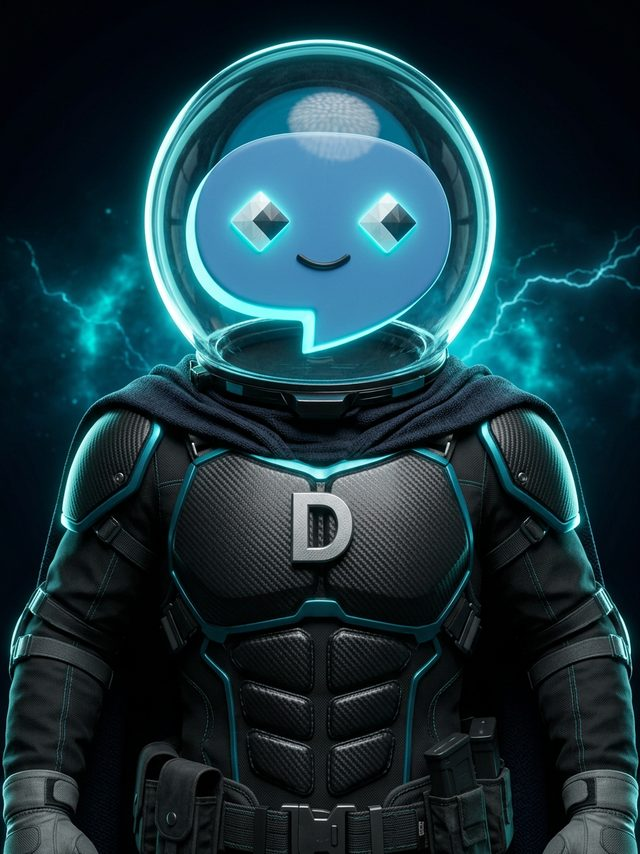
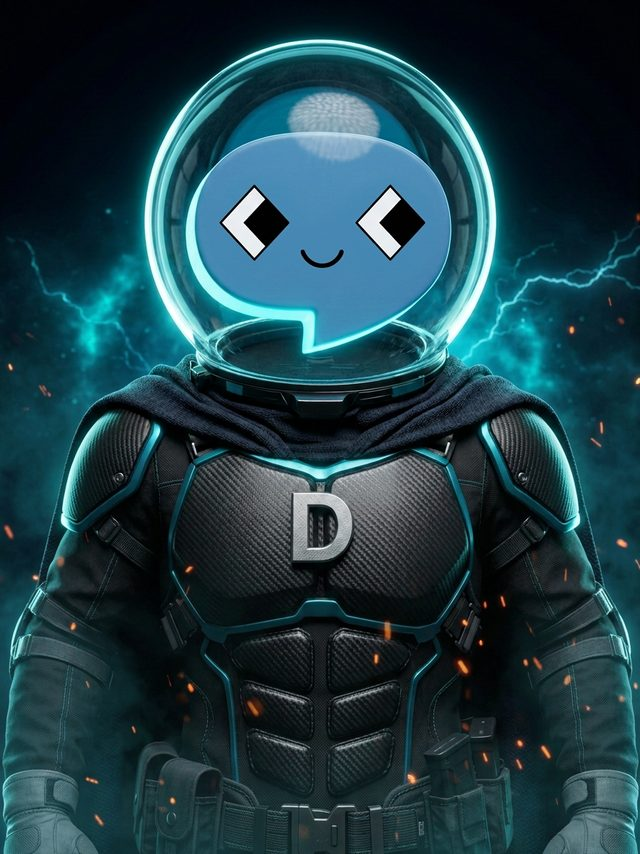
Mascot-faithful eyes, your portrait as-is, DRAG tutorial text, kunai diagnostics
- in-game Dili eyes rebuilt to match the reference: white rotated square with
  black chevron on its RIGHT side, both eyes identical
- VS-splash/help portrait = the provided mascot image as-is, web-optimized
  (640px progressive jpg, 91KB)
- dash tutorial text now teaches DRAG 2x (tap still works as alternative)
- kunai: bigger blade (2.6x), brighter halo + thicker trail
- build tag shows a live 'kunai N' counter while a blade is airborne

diff --git a/src/entities/Projectile.js b/src/entities/Projectile.js
@@ -43,8 +43,8 @@ export class Projectile {
       particleSystem.particles.push({
         x: this.x - this.direction * 12, y: this.y,
         vx: -this.direction * 60, vy: 0,
-        size: 3.4, color: 'rgba(186, 240, 255, 0.9)',
-        alpha: 0.9, life: 0.22, maxLife: 0.22, type: 'spark',
+        size: 5, color: 'rgba(220, 250, 255, 1)',
+        alpha: 1, life: 0.3, maxLife: 0.3, type: 'spark',
       });
     }
 
@@ -78,19 +78,19 @@ export class Projectile {
     } else {
       // Steel Kunai / Throwing Dagger — big, bright and halo-lit so it never
       // disappears against busy stage art (halo uses gradients: phone-safe)
-      const halo = ctx.createRadialGradient(0, 0, 2, 0, 0, 42);
-      halo.addColorStop(0, 'rgba(186, 240, 255, 0.75)');
-      halo.addColorStop(0.5, 'rgba(103, 232, 249, 0.35)');
+      const halo = ctx.createRadialGradient(0, 0, 2, 0, 0, 46);
+      halo.addColorStop(0, 'rgba(200, 245, 255, 0.85)');
+      halo.addColorStop(0.5, 'rgba(103, 232, 249, 0.4)');
       halo.addColorStop(1, 'rgba(103, 232, 249, 0)');
       ctx.fillStyle = halo;
       ctx.beginPath();
-      ctx.arc(0, 0, 42, 0, Math.PI * 2);
+      ctx.arc(0, 0, 46, 0, Math.PI * 2);
       ctx.fill();
 
-      ctx.scale(2.2, 2.2);
+      ctx.scale(2.6, 2.6);
       ctx.fillStyle = '#ffffff';
       ctx.strokeStyle = '#22d3ee';
-      ctx.lineWidth = 1.6;
+      ctx.lineWidth = 2;
 
       ctx.beginPath();
       ctx.moveTo(14, 0);

diff --git a/src/entities/FighterRenderer.js b/src/entities/FighterRenderer.js
@@ -518,21 +518,35 @@ export class FighterRenderer {
       ctx.closePath();
       ctx.fill();
 
-      // Diamond eyes (white diamond + black pupil diamond)
+      // Diamond eyes — white rotated square with the black chevron on its
+      // RIGHT side, both eyes identical (matches the mascot reference art)
       const eye = (ex) => {
         ctx.save();
         ctx.translate(ex, -2);
+        // White square (rotated 45°)
+        ctx.save();
         ctx.rotate(Math.PI / 4);
         if (isShadow) {
           ctx.fillStyle = '#00f0ff';
           ctx.shadowColor = '#00f0ff';
           ctx.shadowBlur = 8;
-          ctx.fillRect(-2.6, -2.6, 5.2, 5.2);
         } else {
           ctx.fillStyle = '#f8fafc';
-          ctx.fillRect(-2.7, -2.7, 5.4, 5.4);
+        }
+        ctx.fillRect(-2.7, -2.7, 5.4, 5.4);
+        ctx.restore();
+        // Black left-pointing chevron sitting on the RIGHT of the white square
+        if (!isShadow) {
           ctx.fillStyle = '#0b1220';
-          ctx.fillRect(-1.5, -1.5, 3, 3);
+          ctx.beginPath();
+          ctx.moveTo(0.1, 0);        // left tip
+          ctx.lineTo(3.3, -3.2);     // top-right
+          ctx.lineTo(3.3, -1.3);
+          ctx.lineTo(1.5, 0);        // inner notch
+          ctx.lineTo(3.3, 1.3);
+          ctx.lineTo(3.3, 3.2);      // bottom-right
+          ctx.closePath();
+          ctx.fill();
         }
         ctx.restore();
       };

diff --git a/src/ui/HUD.js b/src/ui/HUD.js
@@ -66,7 +66,7 @@ export class HUD {
     if (this.flashAlpha > 0) this.flashAlpha = Math.max(0, this.flashAlpha - 3.6 * dt);
   }
 
-  render(ctx, p1, p2, matchTimer, roundNum) {
+  render(ctx, p1, p2, matchTimer, roundNum, projectiles) {
     const w = GAME_CONFIG.WORLD_WIDTH;
 
     ctx.save();
@@ -85,14 +85,18 @@ export class HUD {
     // 4. Desktop keyboard legend
     if (this.showKeyHints) this.renderKeyHints(ctx);
 
-    // Tiny build tag (bottom-left) — proves which build a device is running
+    // Tiny build tag (bottom-left) — proves which build a device is running.
+    // While a kunai is airborne it also shows a live counter, so if the blade
+    // is ever invisible on a device we can tell spawn-vs-render apart at a glance.
     if (typeof __BUILD_ID__ !== 'undefined') {
+      let n = 0;
+      if (projectiles) for (const p of projectiles) if (p.active) n++;
       ctx.save();
       ctx.font = '600 12px "Rajdhani", system-ui, sans-serif';
       ctx.textAlign = 'left';
       ctx.textBaseline = 'alphabetic';
       ctx.fillStyle = 'rgba(148, 163, 184, 0.55)';
-      ctx.fillText('build ' + __BUILD_ID__, 10, 712);
+      ctx.fillText('build ' + __BUILD_ID__ + (n ? '  ·  kunai ' + n : ''), 10, 712);
       ctx.restore();
     }
 

diff --git a/src/ui/Tutorial.js b/src/ui/Tutorial.js
@@ -24,7 +24,7 @@ export class Tutorial {
         done: (e) => e.player.state === 'BLOCK' },
       { id: 'heavy', text: 'TAP HEAVY FOR A POWER SMASH',
         done: (e) => (e.player.currentMove?.name || '').includes('Splitter') },
-      { id: 'joystick', chevrons: true, text: 'TAP LEFT / RIGHT SIDE TWICE FAST  (OR FLICK STICK 2×)',
+      { id: 'joystick', chevrons: true, text: 'DRAG LEFT / RIGHT 2× FAST TO DASH  (OR TAP A SIDE 2×)',
         done: (e) => e.player.state === 'DASH' },
       { id: 'ranged', text: 'TAP RANGED TO THROW A KUNAI',
         done: (e) => (e.player.currentMove?.name || '').includes('Kunai') },

diff --git a/src/core/Engine.js b/src/core/Engine.js
@@ -495,7 +495,7 @@ export class Engine {
     this.camera.restoreTransform(ctx);
 
     // 5. Fixed HUD & UI Elements (canvas is currently in world-space transform)
-    this.hud.render(ctx, this.player, this.opponent, this.matchTimer, this.roundNumber);
+    this.hud.render(ctx, this.player, this.opponent, this.matchTimer, this.roundNumber, this.projectiles);
 
     // Character-select splash on top of everything during the round intro
     if (this.matchState === 'INTRO') {
